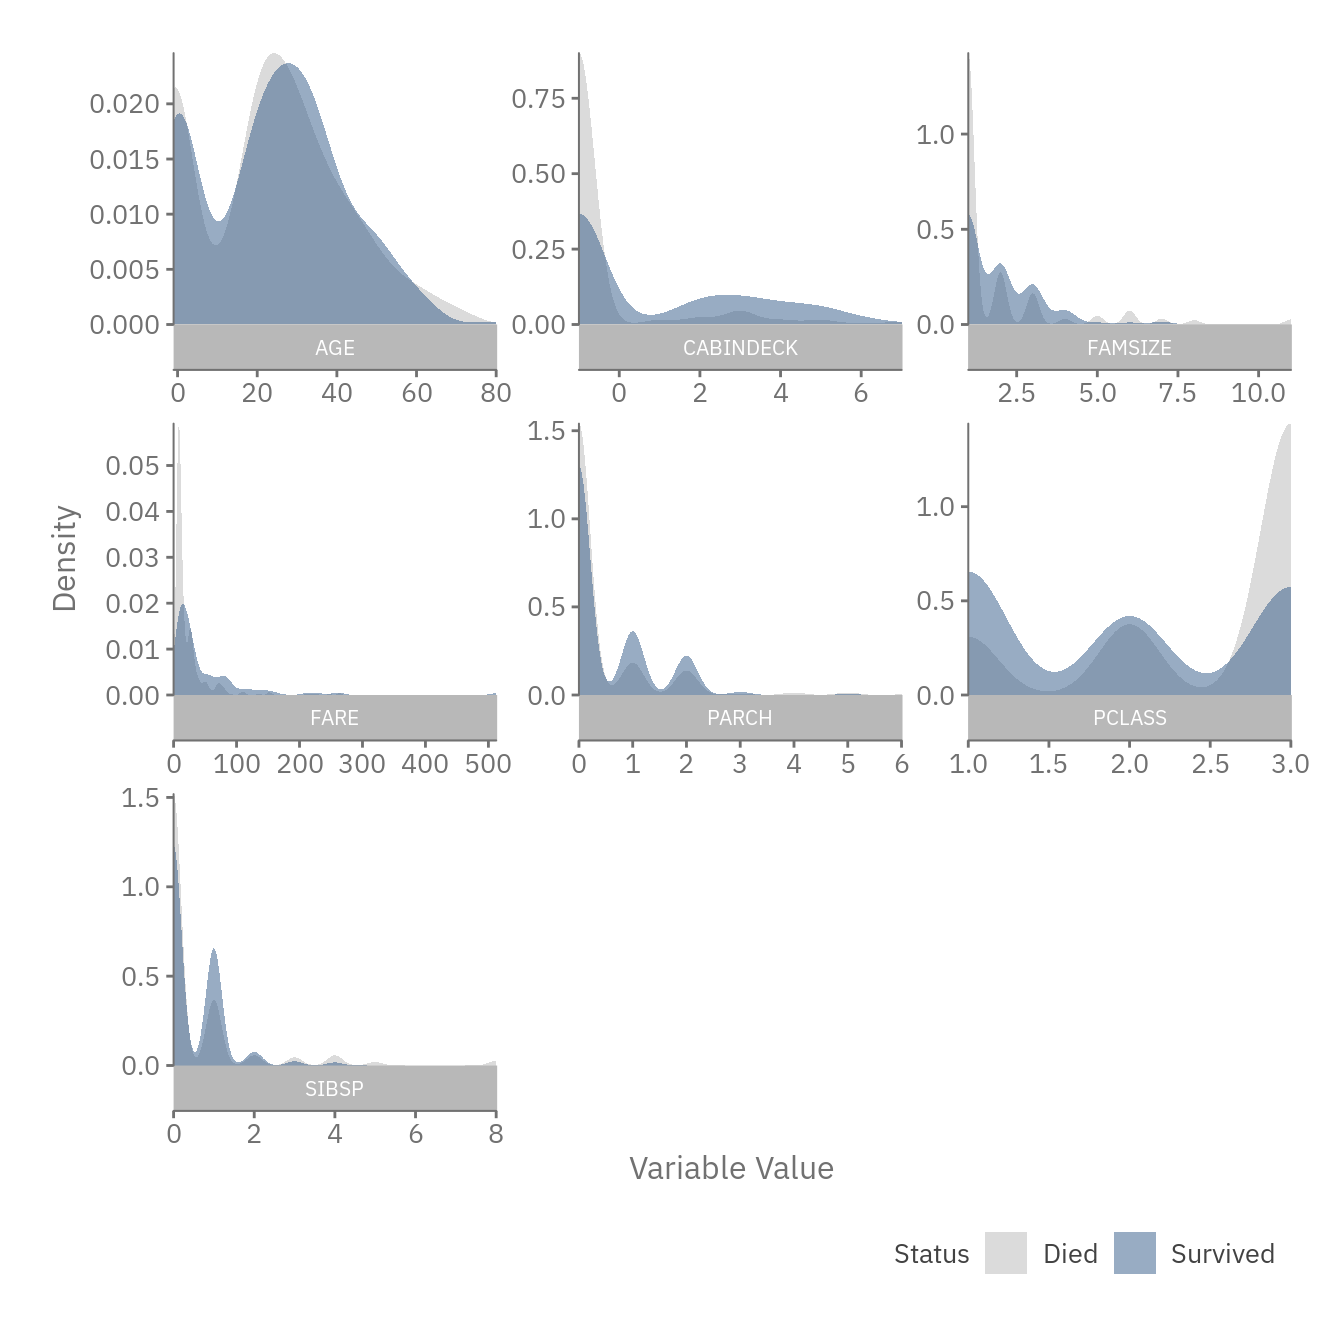
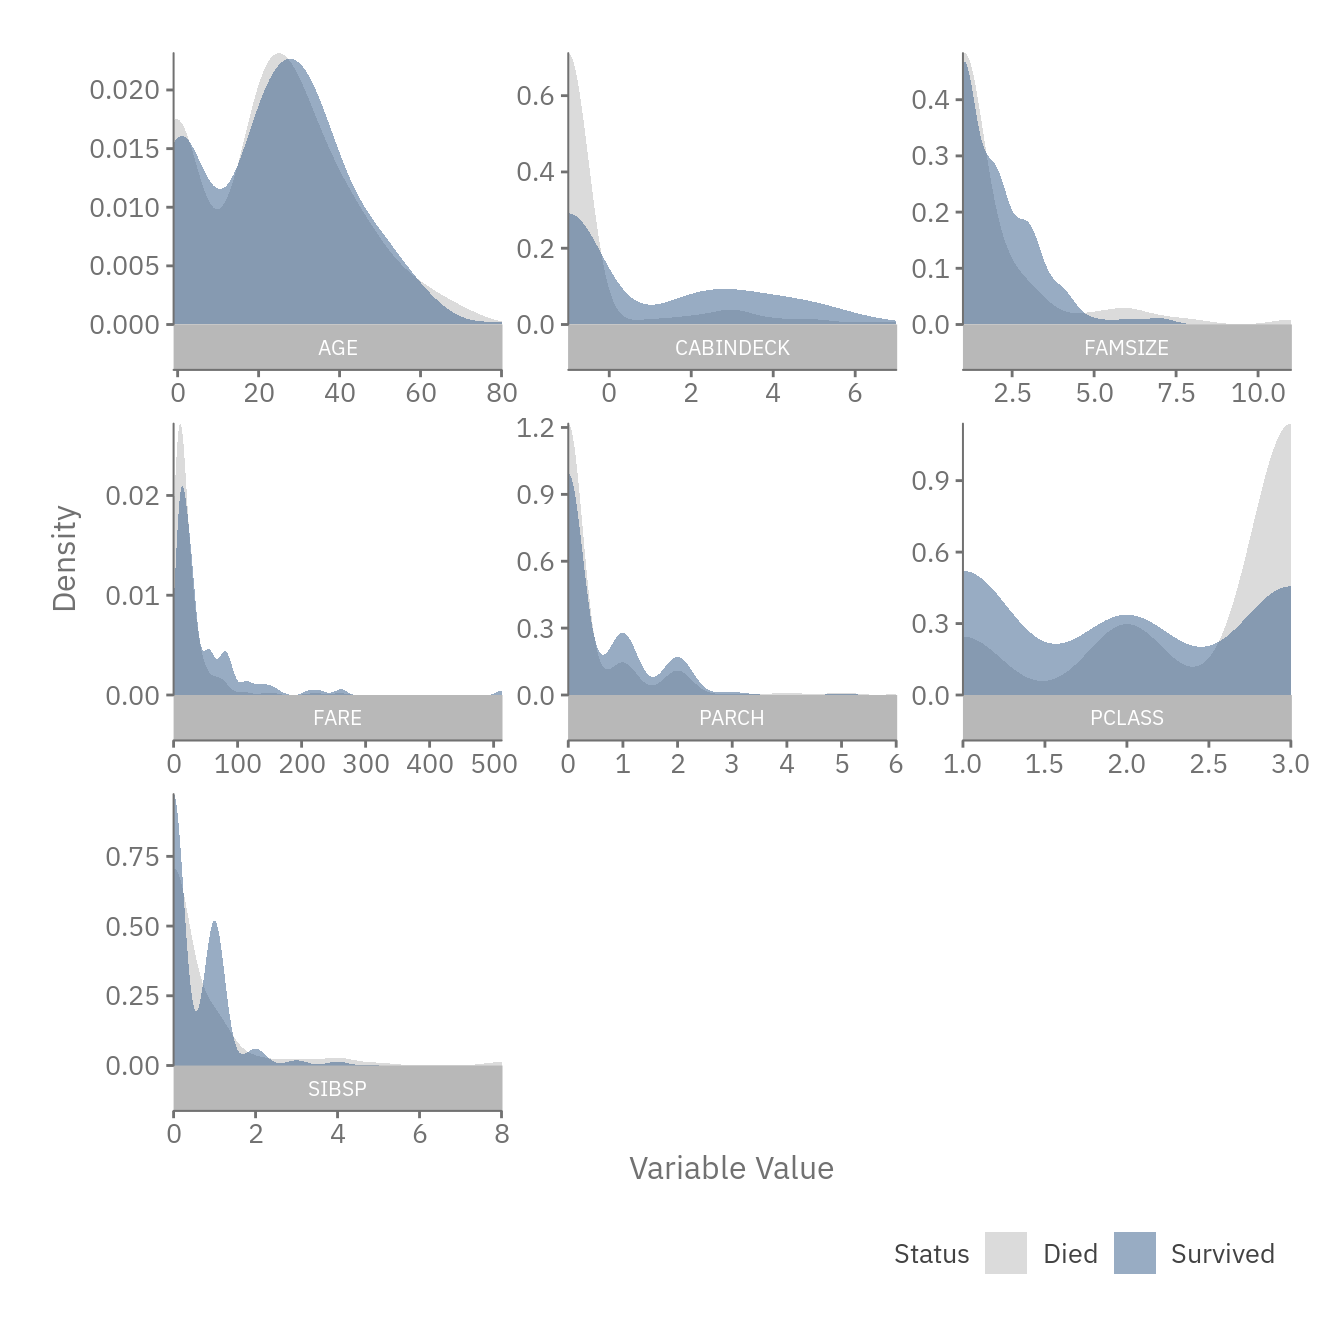
Updated snapshot and feature plots

diff --git a/index.html b/index.html
@@ -374,17 +374,18 @@ title_plot</code></pre>
 
 famsize_plot &lt;- training_set %&gt;%
                 mutate(FamSize = feature_famsize(SibSp, Parch)) %&gt;%
-                group_by(FamSize) %&gt;%
-                summarise(CohortSize = n(),
-                          SurvivalRate = sum(Survived)/n()) %&gt;%
                 {
-                  ggplot(., aes(x=FamSize, y=SurvivalRate, size=CohortSize, weight=CohortSize)) +
+                  ggplot(., aes(x=FamSize, fill=factor(Survived))) +
                     theme_lk() +
-                    geom_point(alpha=0.5, color=`@c`(ltxt)) +
-                    geom_smooth(color = `@c`(1), se=FALSE, show.legend=FALSE, method = &quot;loess&quot;) +
-                    scale_x_continuous(name=&quot;Family Size&quot;) + 
-                    scale_y_continuous(name=&quot;Survival Likelihood&quot;, expand=c(0,0,0.02,0), labels=scales::percent) +
-                    scale_size_continuous(name=&quot;Cohort Size&quot;)
+                    theme(
+                      axis.ticks.y = element_blank(),
+                      axis.text.y = element_blank()
+                    ) +
+                    geom_density(color=NA, alpha=0.5, bw=&quot;bcv&quot;) +
+                    scale_x_continuous(name=&quot;Family Size&quot;, expand=c(0,0), breaks=1:5*2) + 
+                    scale_y_continuous(name=&quot;Density&quot;, expand=c(0,0,0.02,0)) +
+                    scale_fill_manual(name=&quot;Cohort Size&quot;, values=c(`1`=`@c`(1),`0`=`@c`(ltxt)),
+                                                          labels=c(`1`=&quot;Survived&quot;,`0`=&quot;Died&quot;))
                 }
 
 famsize_plot</code></pre>
@@ -416,17 +417,18 @@ feature_cabin_deck &lt;- function(Cabin) {
 cabin_deck_plot &lt;- training_set %&gt;%
                     mutate(CabinDeck = feature_cabin_deck(Cabin)) %&gt;%
                    filter(!is.na(CabinDeck)) %&gt;%
-                   group_by(CabinDeck) %&gt;%
-                   summarise(CohortSize = n(),
-                             SurvivalRate = sum(Survived)/n()) %&gt;%
                   {
-                    ggplot(., aes(x=CabinDeck, y=SurvivalRate, size=CohortSize, weight=CohortSize)) +
+                    ggplot(., aes(x=CabinDeck, fill=factor(Survived))) +
                       theme_lk() +
-                      geom_point(alpha=0.5, color=`@c`(ltxt)) +
-                      geom_smooth(color = `@c`(1), se=FALSE, show.legend=FALSE, method=&quot;loess&quot;) +
-                      scale_x_continuous(name=&quot;Cabin Deck&quot;, breaks=deck_to_index, labels=setNames(names(deck_to_index),deck_to_index)) + 
-                      scale_y_continuous(name=&quot;Survival Likelihood&quot;, expand=c(0,0,0.02,0), labels=scales::percent) +
-                      scale_size_continuous(name=&quot;Cohort Size&quot;)
+                      theme(
+                        axis.ticks.y = element_blank(),
+                        axis.text.y = element_blank()
+                      ) +
+                      geom_density(color=NA, alpha=0.5, bw=&quot;bcv&quot;) +
+                      scale_x_continuous(name=&quot;Cabin Deck&quot;, expand=c(0,0), breaks=deck_to_index, labels=setNames(names(deck_to_index),deck_to_index)) + 
+                      scale_y_continuous(name=&quot;Density&quot;, expand=c(0,0,0.02,0)) +
+                      scale_fill_manual(name=&quot;Cohort Size&quot;, values=c(`1`=`@c`(1),`0`=`@c`(ltxt)),
+                                        labels=c(`1`=&quot;Survived&quot;,`0`=&quot;Died&quot;))
                   }
 
 cabin_deck_plot</code></pre>
@@ -518,12 +520,14 @@ cabin_number_plot</code></pre>
 
 features &lt;- preprocess_data(training_set)
 
-snapshot &lt;- data_snapshot(features %&gt;% mutate(Survived = Survived %&gt;% factor), Survived)
-suppressMessages(for (p in snapshot) {
-  { p +
-  scale_fill_manual(name = &quot;Status&quot;,
-                    values=c(`0`=`@c`(ltxt,0.5),`1`=`@c`(1)),
-                    labels=c(`0`=&quot;Died&quot;,`1`=&quot;Survived&quot;)) } %&gt;% plot
+
+suppressMessages({
+  snapshot &lt;- data_snapshot(features %&gt;% mutate(Survived = Survived %&gt;% factor), Survived,
+                            cont_geom = geom_density(color=NA, alpha=0.5, bw=&quot;bcv&quot;),
+                            misc_layers = scale_fill_manual(name = &quot;Status&quot;,
+                                                            values=c(`0`=`@c`(ltxt,0.5),`1`=`@c`(1)),
+                                                            labels=c(`0`=&quot;Died&quot;,`1`=&quot;Survived&quot;)))
+  for (p in snapshot) { plot(p) }
 })</code></pre>
 <p><img src="index_files/figure-html/unnamed-chunk-8-1.png" width="672" style="display: block; margin: auto;" /><img src="index_files/figure-html/unnamed-chunk-8-2.png" width="672" style="display: block; margin: auto;" /></p>
 </section>

diff --git a/README.md b/README.md
@@ -252,17 +252,18 @@ feature_famsize <- function(Sibsp, Parch) { pmap(list(x=Sibsp, y=Parch), ..(x,y)
 
 famsize_plot <- training_set %>%
                 mutate(FamSize = feature_famsize(SibSp, Parch)) %>%
-                group_by(FamSize) %>%
-                summarise(CohortSize = n(),
-                          SurvivalRate = sum(Survived)/n()) %>%
                 {
-                  ggplot(., aes(x=FamSize, y=SurvivalRate, size=CohortSize, weight=CohortSize)) +
+                  ggplot(., aes(x=FamSize, fill=factor(Survived))) +
                     theme_lk() +
-                    geom_point(alpha=0.5, color=`@c`(ltxt)) +
-                    geom_smooth(color = `@c`(1), se=FALSE, show.legend=FALSE, method = "loess") +
-                    scale_x_continuous(name="Family Size") + 
-                    scale_y_continuous(name="Survival Likelihood", expand=c(0,0,0.02,0), labels=scales::percent) +
-                    scale_size_continuous(name="Cohort Size")
+                    theme(
+                      axis.ticks.y = element_blank(),
+                      axis.text.y = element_blank()
+                    ) +
+                    geom_density(color=NA, alpha=0.5, bw="bcv") +
+                    scale_x_continuous(name="Family Size", expand=c(0,0), breaks=1:5*2) + 
+                    scale_y_continuous(name="Density", expand=c(0,0,0.02,0)) +
+                    scale_fill_manual(name="Cohort Size", values=c(`1`=`@c`(1),`0`=`@c`(ltxt)),
+                                                          labels=c(`1`="Survived",`0`="Died"))
                 }
 
 famsize_plot
@@ -297,17 +298,18 @@ feature_cabin_deck <- function(Cabin) {
 cabin_deck_plot <- training_set %>%
                     mutate(CabinDeck = feature_cabin_deck(Cabin)) %>%
                    filter(!is.na(CabinDeck)) %>%
-                   group_by(CabinDeck) %>%
-                   summarise(CohortSize = n(),
-                             SurvivalRate = sum(Survived)/n()) %>%
                   {
-                    ggplot(., aes(x=CabinDeck, y=SurvivalRate, size=CohortSize, weight=CohortSize)) +
+                    ggplot(., aes(x=CabinDeck, fill=factor(Survived))) +
                       theme_lk() +
-                      geom_point(alpha=0.5, color=`@c`(ltxt)) +
-                      geom_smooth(color = `@c`(1), se=FALSE, show.legend=FALSE, method="loess") +
-                      scale_x_continuous(name="Cabin Deck", breaks=deck_to_index, labels=setNames(names(deck_to_index),deck_to_index)) + 
-                      scale_y_continuous(name="Survival Likelihood", expand=c(0,0,0.02,0), labels=scales::percent) +
-                      scale_size_continuous(name="Cohort Size")
+                      theme(
+                        axis.ticks.y = element_blank(),
+                        axis.text.y = element_blank()
+                      ) +
+                      geom_density(color=NA, alpha=0.5, bw="bcv") +
+                      scale_x_continuous(name="Cabin Deck", expand=c(0,0), breaks=deck_to_index, labels=setNames(names(deck_to_index),deck_to_index)) + 
+                      scale_y_continuous(name="Density", expand=c(0,0,0.02,0)) +
+                      scale_fill_manual(name="Cohort Size", values=c(`1`=`@c`(1),`0`=`@c`(ltxt)),
+                                        labels=c(`1`="Survived",`0`="Died"))
                   }
 
 cabin_deck_plot
@@ -404,12 +406,14 @@ preprocess_data <- function(data) {
 
 features <- preprocess_data(training_set)
 
-snapshot <- data_snapshot(features %>% mutate(Survived = Survived %>% factor), Survived)
-suppressMessages(for (p in snapshot) {
-  { p +
-  scale_fill_manual(name = "Status",
-                    values=c(`0`=`@c`(ltxt,0.5),`1`=`@c`(1)),
-                    labels=c(`0`="Died",`1`="Survived")) } %>% plot
+
+suppressMessages({
+  snapshot <- data_snapshot(features %>% mutate(Survived = Survived %>% factor), Survived,
+                            cont_geom = geom_density(color=NA, alpha=0.5, bw="bcv"),
+                            misc_layers = scale_fill_manual(name = "Status",
+                                                            values=c(`0`=`@c`(ltxt,0.5),`1`=`@c`(1)),
+                                                            labels=c(`0`="Died",`1`="Survived")))
+  for (p in snapshot) { plot(p) }
 })
 ```
 
